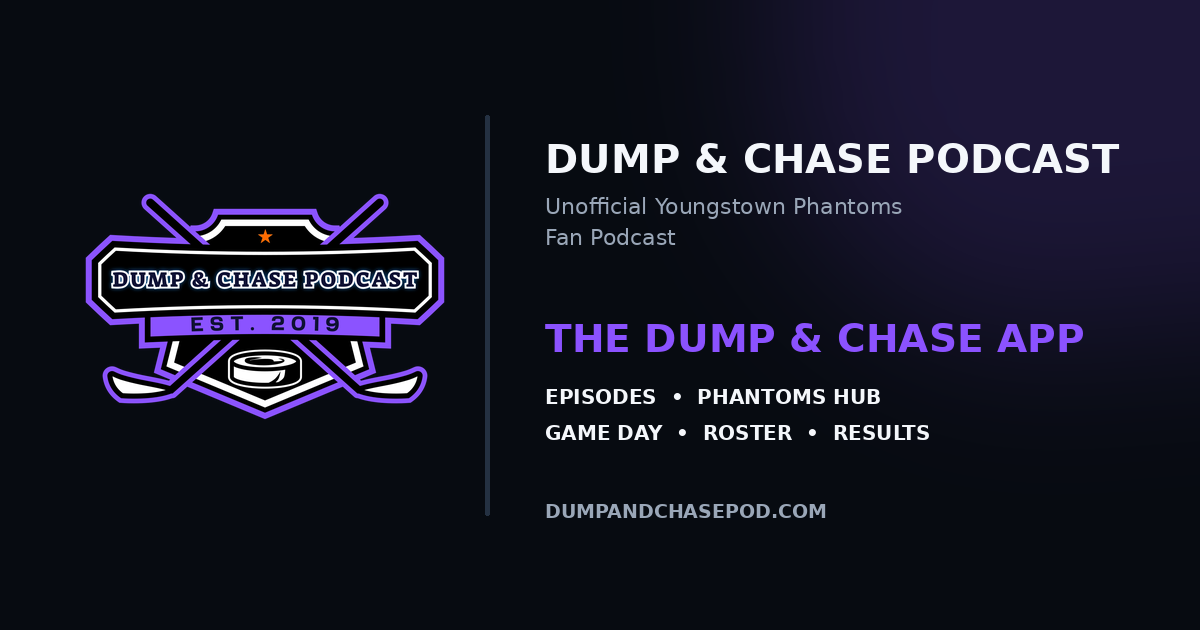
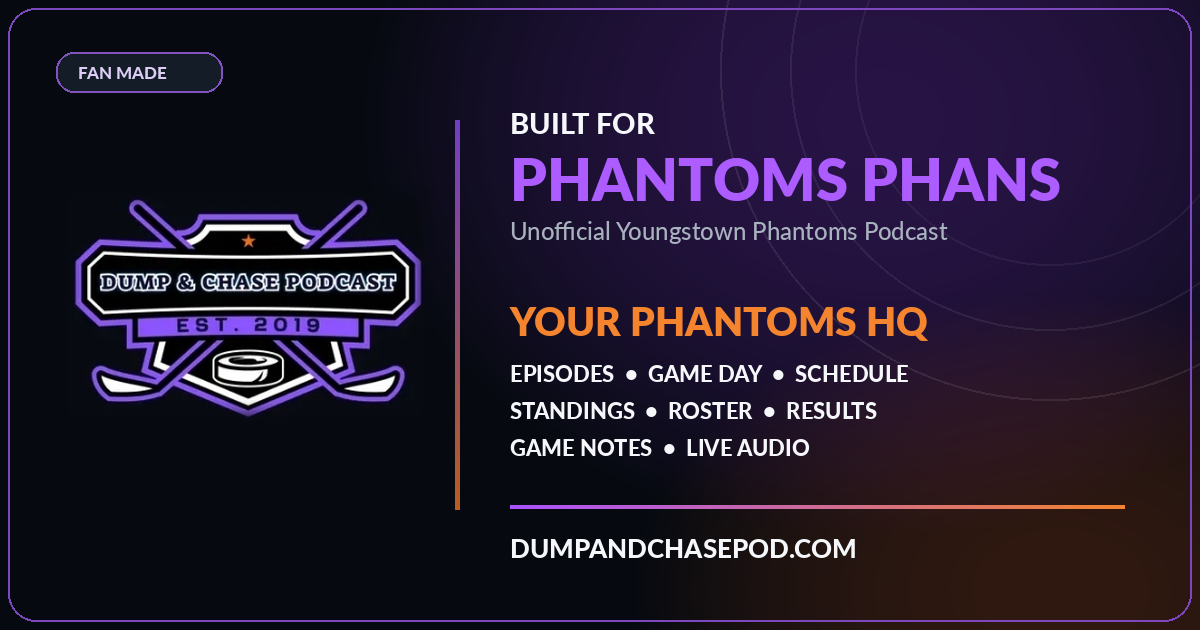
Add files via upload

diff --git a/index.html b/index.html
@@ -4,7 +4,7 @@
   <meta charset="utf-8">
   <meta name="viewport" content="width=device-width,initial-scale=1,viewport-fit=cover">
   <meta name="theme-color" content="#0b1018">
-  <meta name="description" content="Dump & Chase Podcast — Youngstown Phantoms coverage, episodes, interviews and more.">
+  <meta name="description" content="Built for Phantoms Phans — episodes, Game Day, schedule, standings, roster, results, Game Notes and live audio.">
   <link rel="manifest" href="manifest.webmanifest">
 
   <meta name="application-name" content="Dump & Chase">
@@ -14,16 +14,16 @@
   <meta name="format-detection" content="telephone=no">
   <meta property="og:type" content="website">
   <meta property="og:site_name" content="Dump & Chase Podcast">
-  <meta property="og:title" content="Dump & Chase Podcast App">
-  <meta property="og:description" content="Youngstown Phantoms hockey, episodes, roster, results and Game Day updates.">
+  <meta property="og:title" content="Built for Phantoms Phans">
+  <meta property="og:description" content="Your Phantoms HQ — episodes, Game Day, schedule, standings, roster, results, Game Notes and live audio.">
   <meta property="og:url" content="https://www.dumpandchasepod.com/">
-  <meta property="og:image" content="https://www.dumpandchasepod.com/og-card.png?v=244">
+  <meta property="og:image" content="https://www.dumpandchasepod.com/og-card.png?v=503">
   <meta property="og:image:width" content="1200">
   <meta property="og:image:height" content="630">
   <meta name="twitter:card" content="summary_large_image">
-  <meta name="twitter:title" content="Dump & Chase Podcast App">
-  <meta name="twitter:description" content="Youngstown Phantoms hockey, episodes, roster, results and Game Day updates.">
-  <meta name="twitter:image" content="https://www.dumpandchasepod.com/og-card.png?v=244">
+  <meta name="twitter:title" content="Built for Phantoms Phans">
+  <meta name="twitter:description" content="Your Phantoms HQ — episodes, Game Day, schedule, standings, roster, results, Game Notes and live audio.">
+  <meta name="twitter:image" content="https://www.dumpandchasepod.com/og-card.png?v=503">
   <link rel="apple-touch-icon" href="apple-touch-icon.png">
   <link rel="icon" type="image/png" sizes="32x32" href="favicon-32.png">
   <title>Dump & Chase Podcast | Youngstown Phantoms</title>
@@ -8146,7 +8146,7 @@ syncCompletedResults(true).then(function(){renderRecentResults();}).catch(functi
     </div>
     <div id="adminDashboard" style="display:none">
       <div class="admin-dashboard-head">
-        <div><div class="admin-title-row"><h2>Admin</h2><span class="admin-build-version">v501</span></div><div class="admin-last-saved" id="adminLastSaved">No saves this session</div><div class="admin-connection" id="adminConnection" aria-live="polite"><span class="admin-connection-dot" aria-hidden="true"></span><span id="adminConnectionText">Checking connection…</span></div></div>
+        <div><div class="admin-title-row"><h2>Admin</h2><span class="admin-build-version">v503</span></div><div class="admin-last-saved" id="adminLastSaved">No saves this session</div><div class="admin-connection" id="adminConnection" aria-live="polite"><span class="admin-connection-dot" aria-hidden="true"></span><span id="adminConnectionText">Checking connection…</span></div></div>
         <div class="admin-dashboard-actions"><button class="admin-lock-btn" type="button" onclick="adminLogout()">LOCK</button><button class="admin-close" type="button" aria-label="Close admin" title="Close" onclick="closeAdmin()">×</button></div>
       </div>
       <div class="admin-section-tabs" role="tablist" aria-label="Admin sections">

diff --git a/sw.js b/sw.js
@@ -1,4 +1,4 @@
-const CACHE='dump-chase-v501';
+const CACHE='dump-chase-v503';
 const ASSETS=['./','./index.html','./dump-chase-logo.png','./sam-olmstead.jpg','./justin-irwin.jpg','./dan-conley-v163.jpg','./manifest.webmanifest','./icon-192.png','./icon-512.png','./apple-touch-icon.png','./favicon-32.png','./og-card.png','./captain-a.png','./captain-c.png'];
 self.addEventListener('install',e=>{e.waitUntil(
   caches.open(CACHE)
